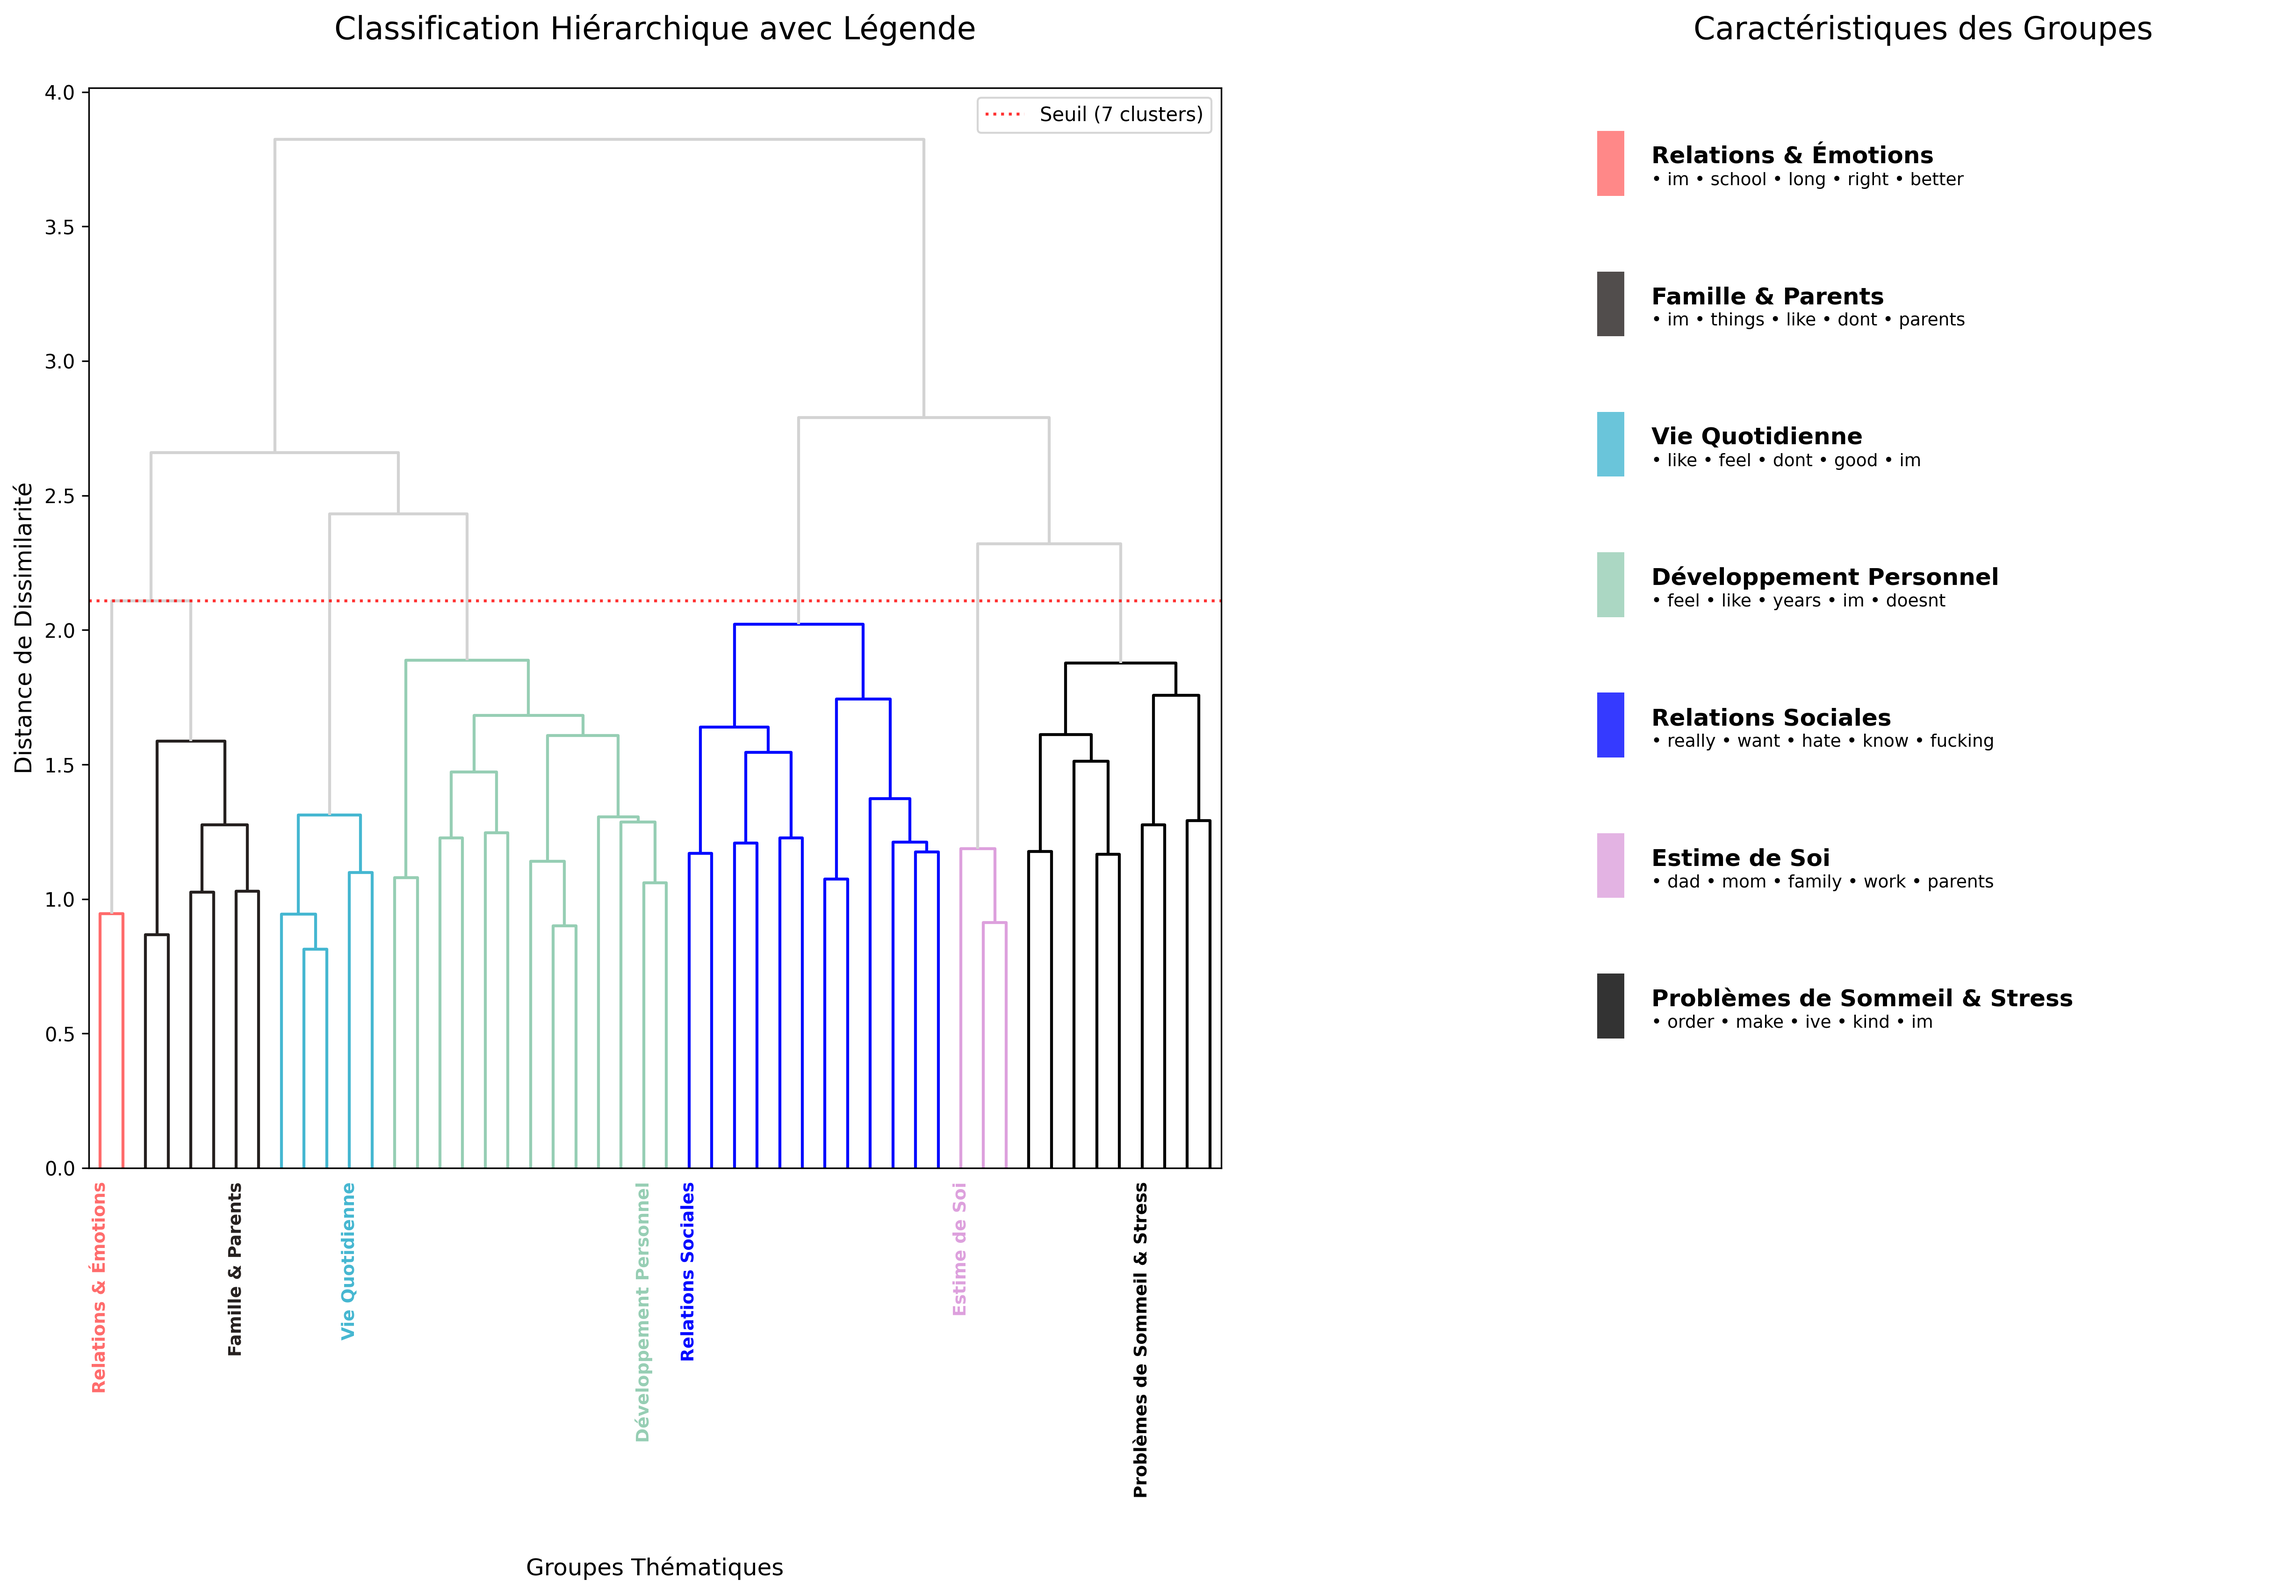
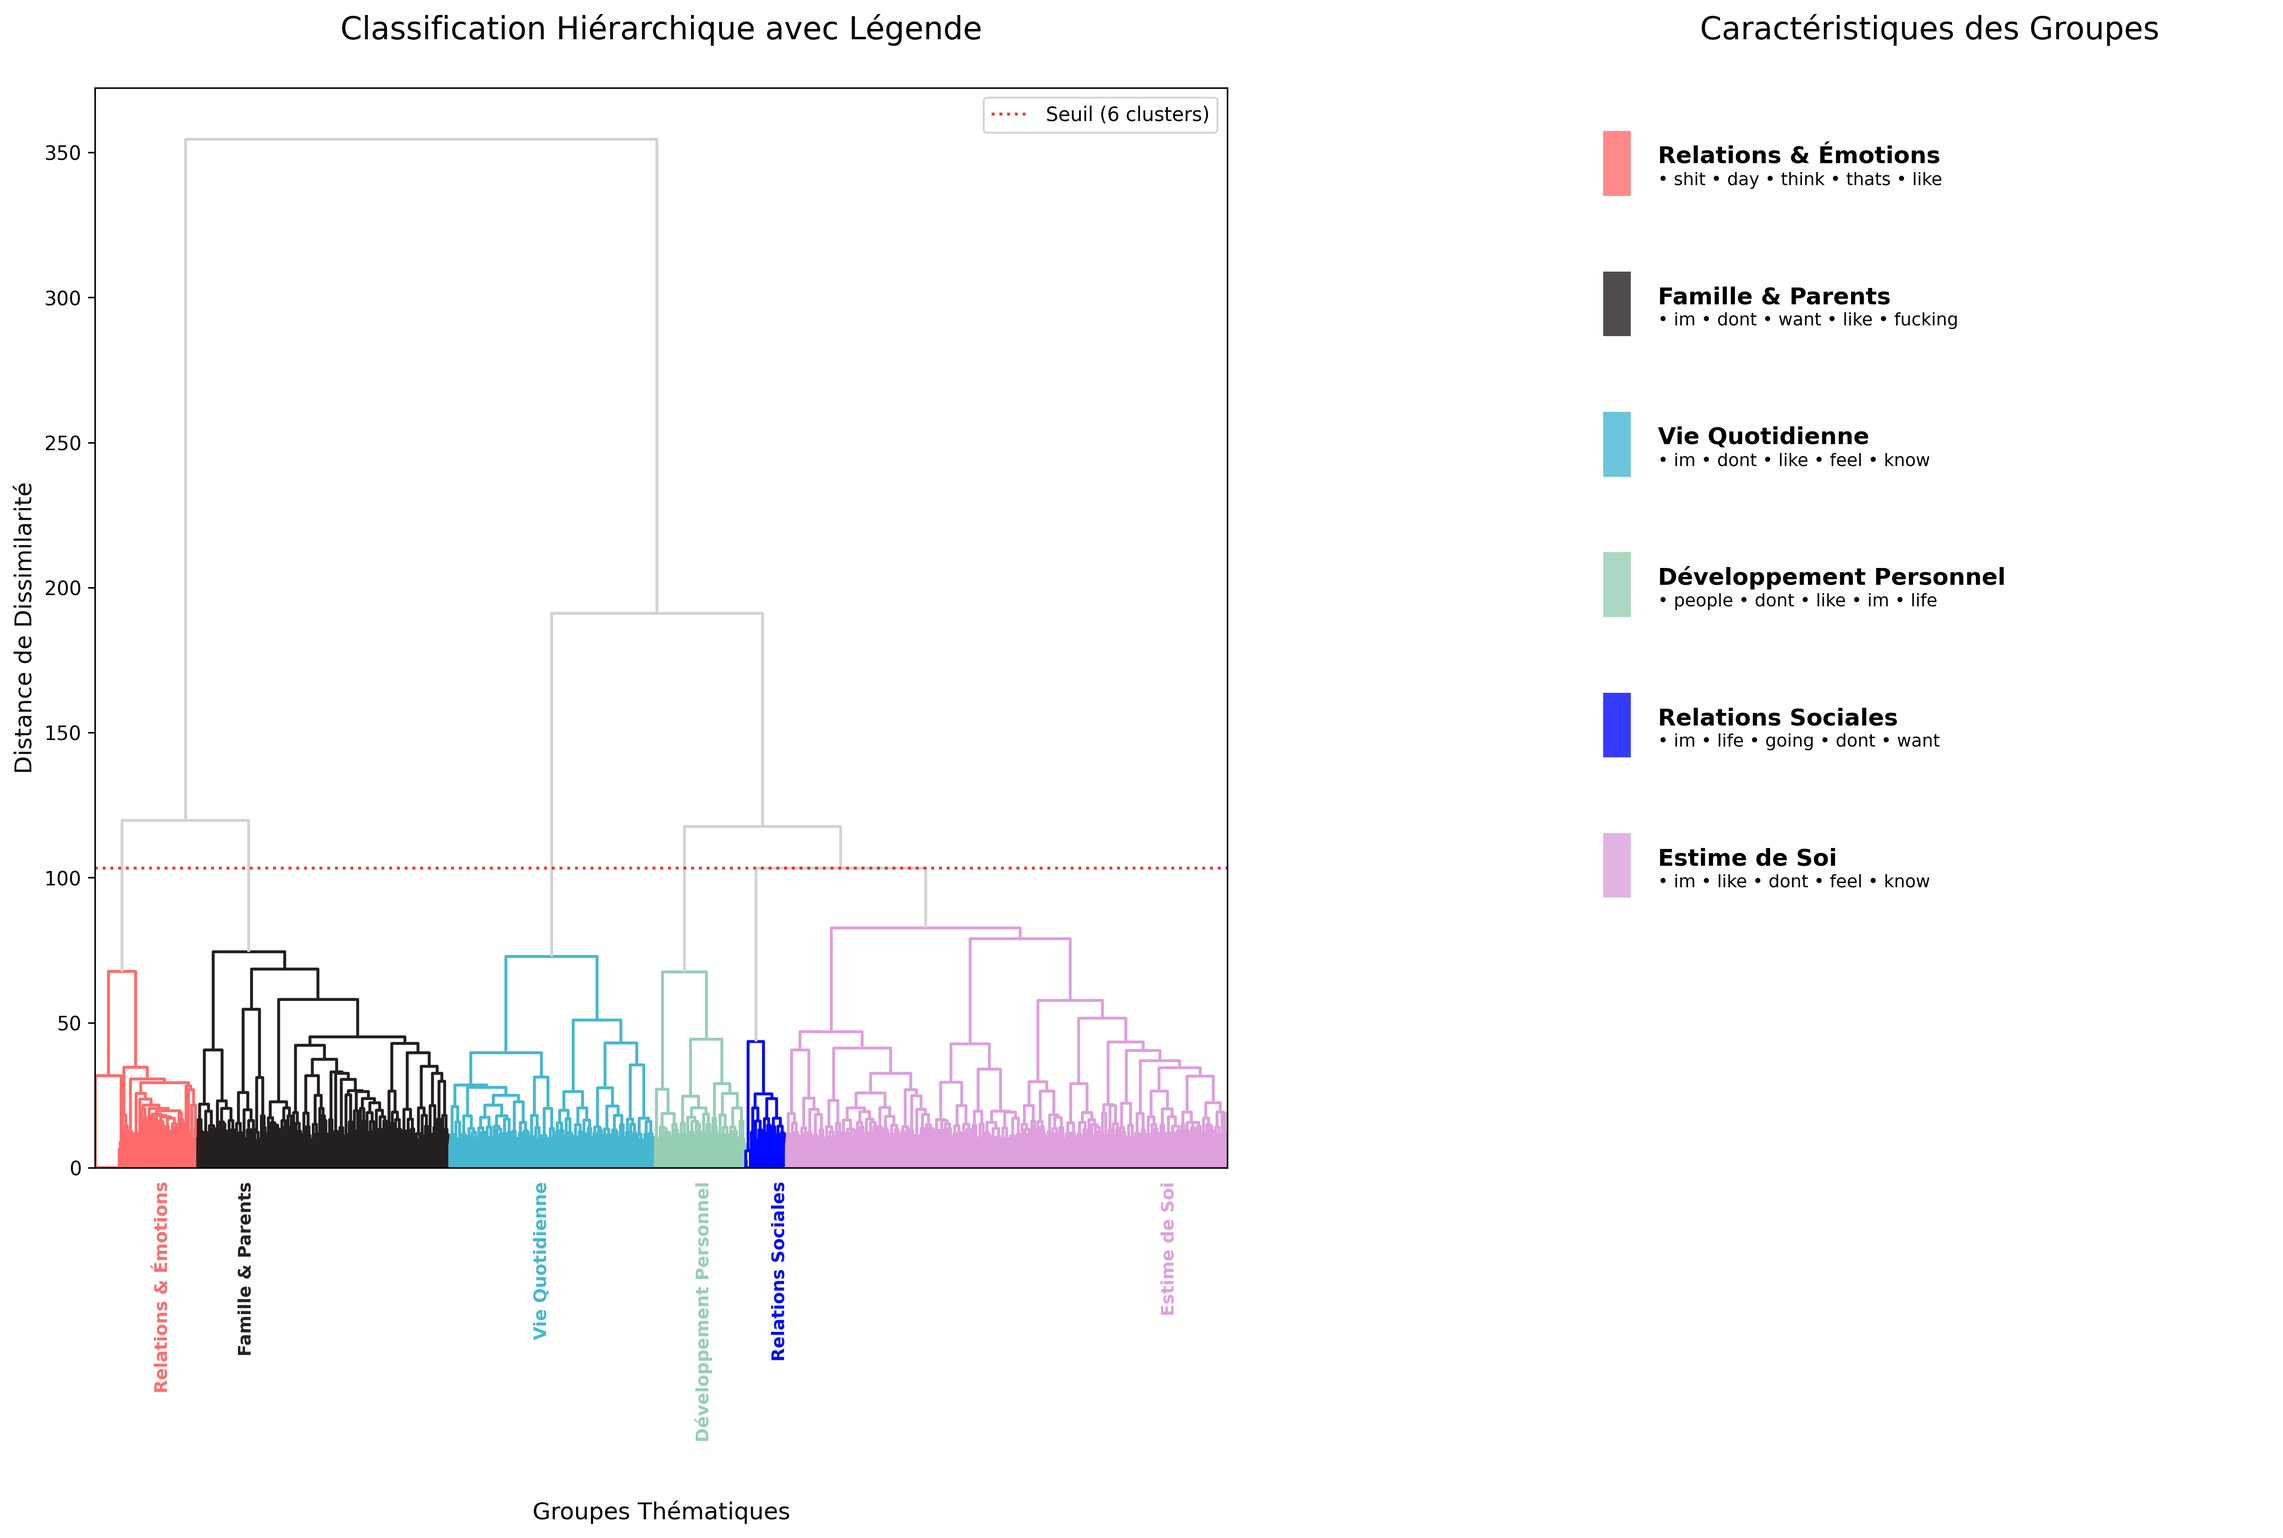
:sparkles: Cleaning code + graph colors fix

diff --git a/algo.py b/algo.py
@@ -260,7 +260,7 @@ dataset = load_dataset("SocialGrep/one-million-reddit-confessions")
 df = pd.DataFrame(dataset['train'])
 df = df[~df['selftext'].isin(['[removed]', '[deleted]', None, ''])]
 
-sample_size = 50
+sample_size = 5000
 sample_df = df.sample(sample_size, random_state=42).reset_index(drop=True)
 sample_df['clean_text'] = sample_df['selftext'].apply(clean_text)
 
